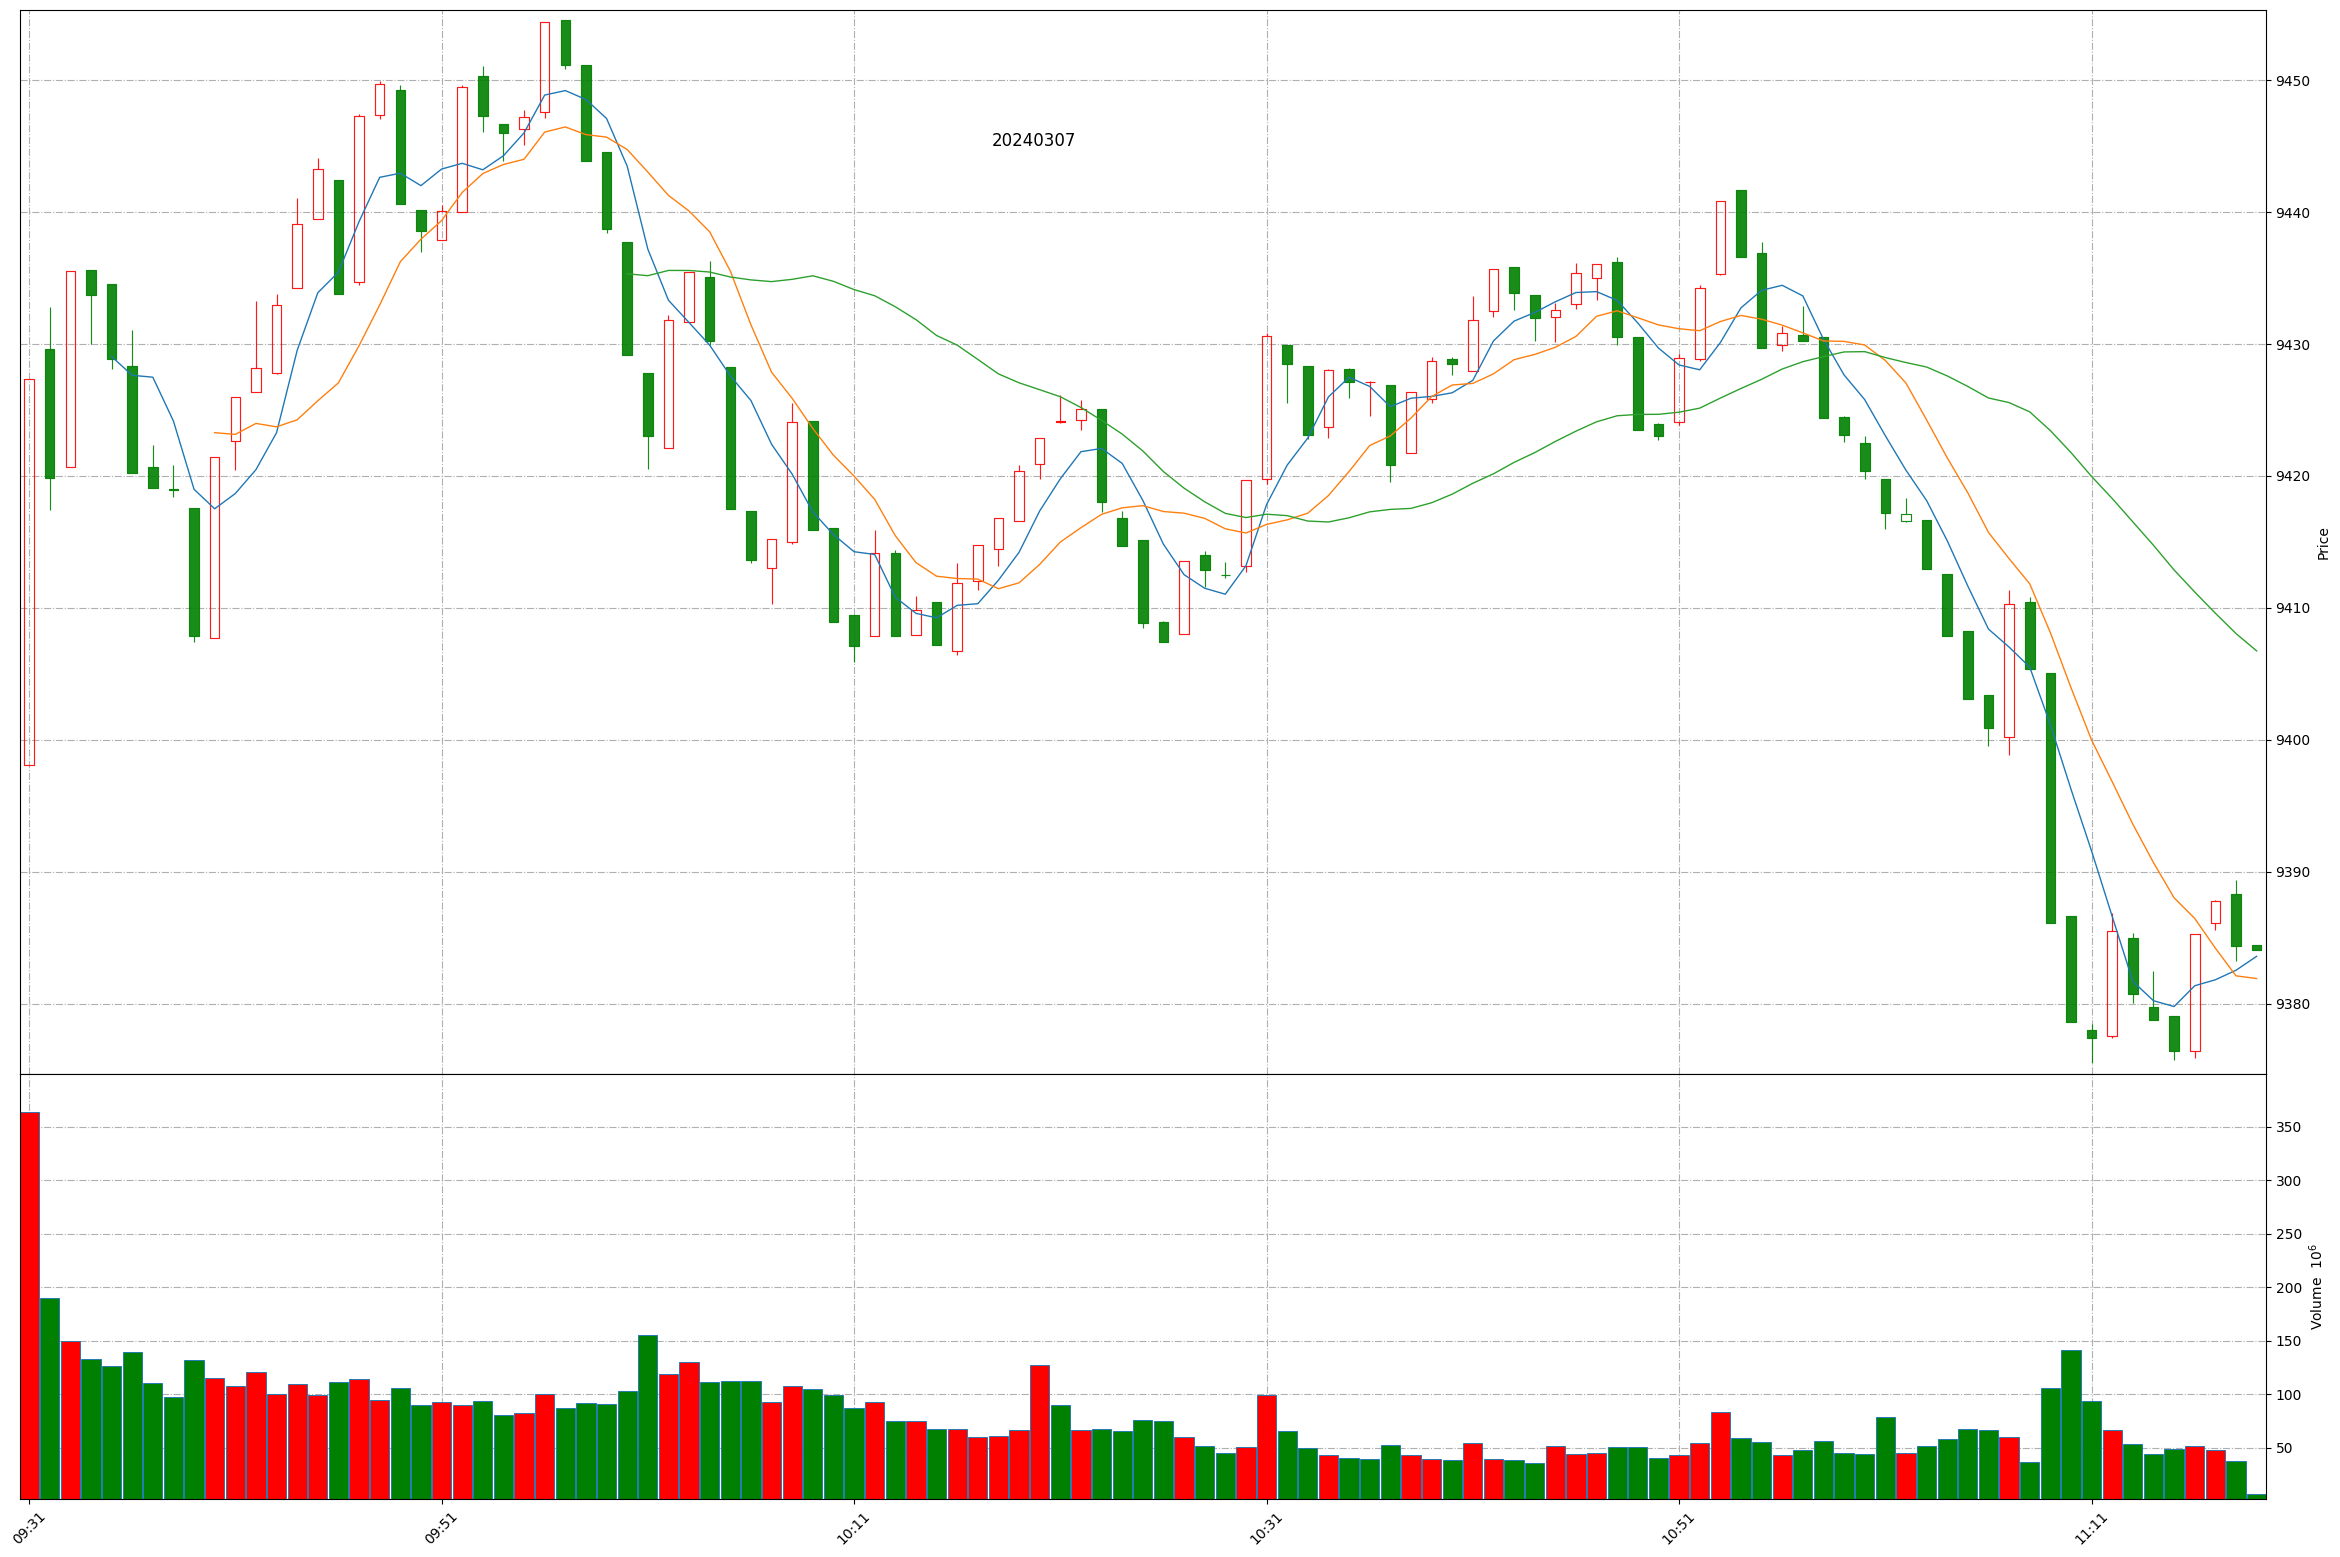
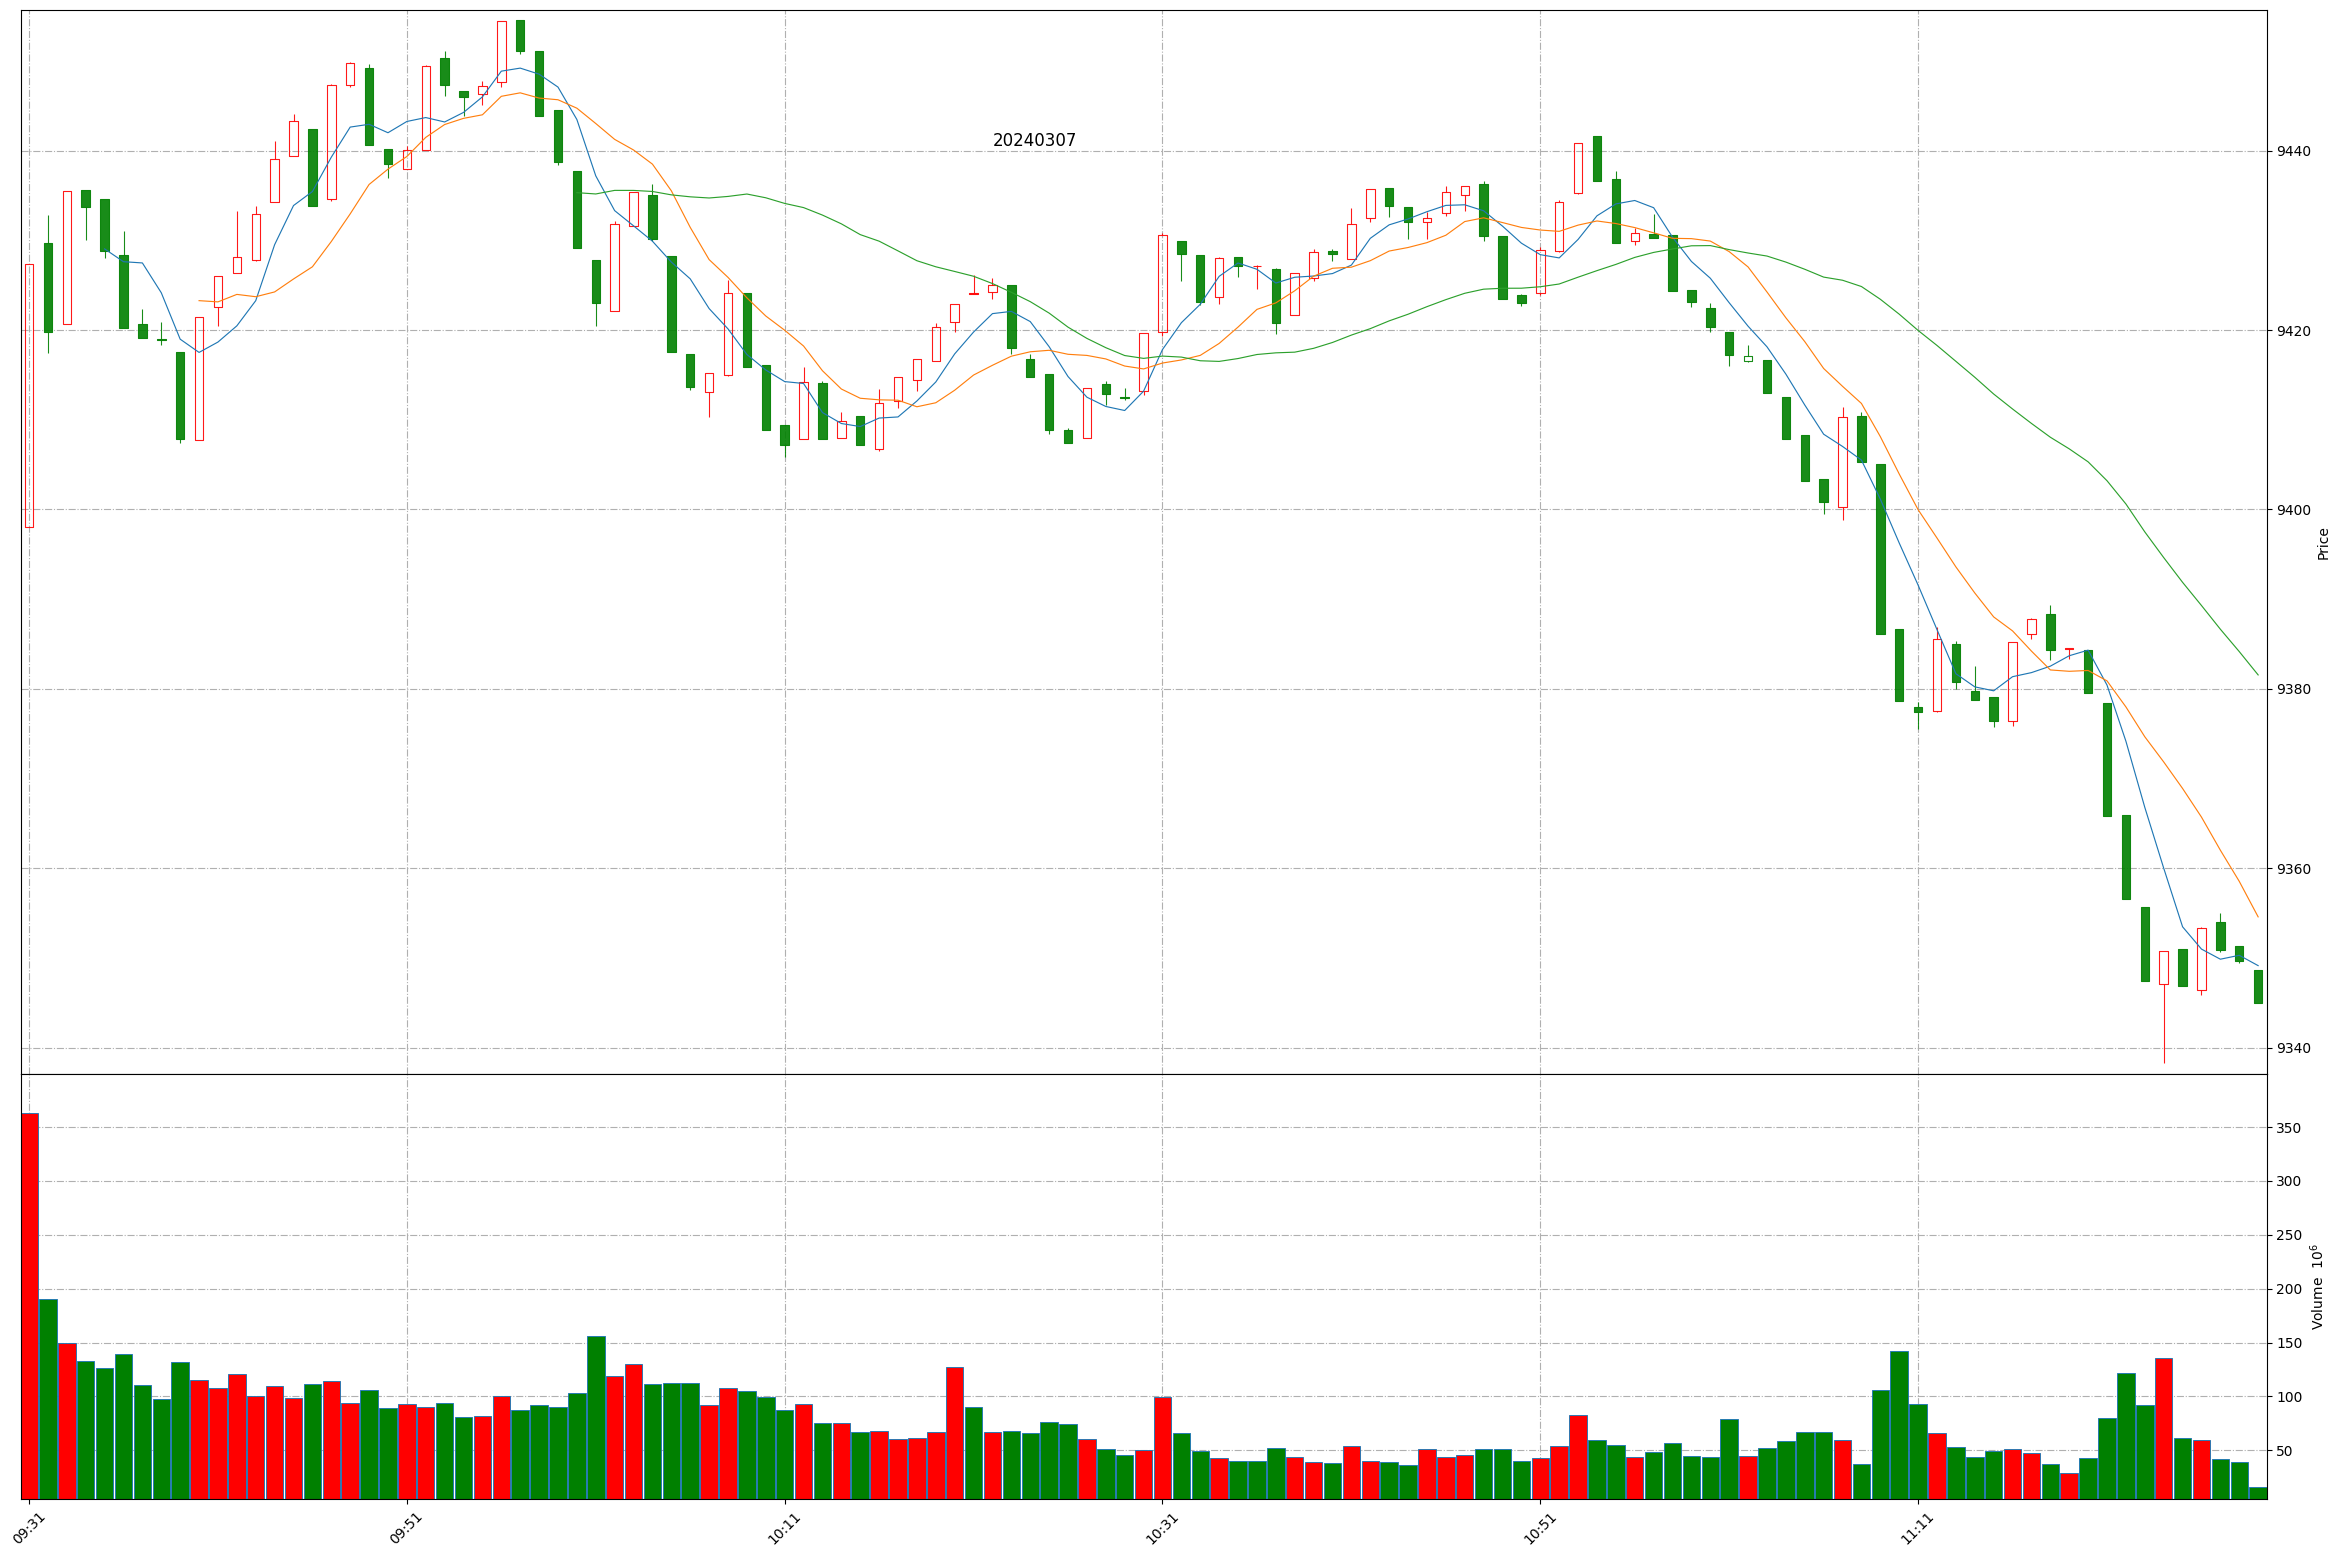
Github action update at 2024-03-07 11:28:29.

Changed region(s): [[0.0, 0.8324, 0.9671, 0.9865], [0.0, 0.0, 0.5303, 0.4316], [0.4991, 0.0925, 0.9671, 0.6782]]

diff --git a/README.md b/README.md
@@ -1,11 +1,11 @@
 
 # Daily-A-share-market-quotes 每日 A 股指数（5min 更新）- 20240307
 
-### 上证指数 20240307 11:18
+### 上证指数 20240307 11:28
 ![](./fig/2024/3/20240307-sh000001.png)
 
-### 深证成指 20240307 11:18
+### 深证成指 20240307 11:28
 ![](./fig/2024/3/20240307-sz399001.png)
 
-### 北证50 20240307 11:18
+### 北证50 20240307 11:28
 ![](./fig/2024/3/20240307-bj899050.png)
